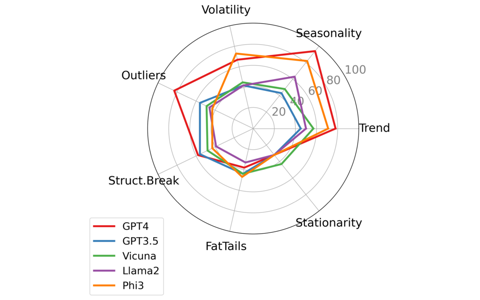
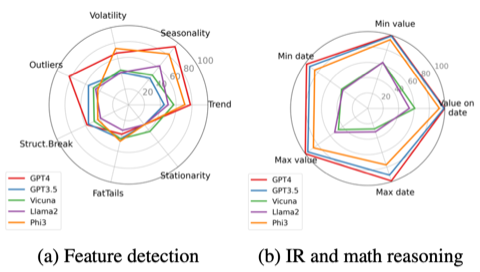
EMNLP thumbnail: both radar plots (Figure 2, page 7); ACL 2025 venues drop 63rd

diff --git a/Data/publications.js b/Data/publications.js
@@ -67,7 +67,7 @@ window.PUBLICATIONS = [
     img: "Images/pubs/thumbs/adaptagent.png", fig: "Images/pubs/adaptagent.png",
     title: "AdaptAgent: Adapting Multimodal Web Agents with Few-Shot Learning from Human Demonstrations",
     authors: "Gaurav Verma, Rachneet Kaur, Nishan Srishankar, Zhen Zeng, Tucker Balch, Manuela Veloso",
-    venue: "63rd Annual Meeting of the Association for Computational Linguistics",
+    venue: "Annual Meeting of the Association for Computational Linguistics",
     badges: ["NeurIPS 2024 Workshop"],
     notes: ["Also presented at NeurIPS Workshop on Adaptive Foundation Models, 2024"],
     links: [["PDF", "https://aclanthology.org/2025.acl-long.1008.pdf"],
@@ -83,7 +83,7 @@ window.PUBLICATIONS = [
     img: "Images/pubs/thumbs/letsc.png", fig: "Images/pubs/letsc.png",
     title: "LETS-C: Leveraging Language Embedding for Time Series Classification",
     authors: "Rachneet Kaur, Zhen Zeng, Tucker Balch, Manuela Veloso",
-    venue: "63rd Annual Meeting of the Association for Computational Linguistics",
+    venue: "Annual Meeting of the Association for Computational Linguistics",
     badges: ["NeurIPS 2024 Workshop"],
     notes: ["Also presented at NeurIPS Workshop on Time Series in the Age of Large Models, 2024"],
     links: [["PDF", "https://aclanthology.org/2025.acl-long.1557.pdf"],

diff --git a/index.html b/index.html
@@ -332,7 +332,7 @@ html.two-col-on .topnav{width:min(1050px, calc(100% - 48px))}
 </td></tr>
 </tbody></table>
 <div class="pubs pubs-selected" data-pubs="selected" data-figures="on"></div> <!-- data-figures="off" hides the figures -->
-<script src="Data/publications.js?v=9"></script>
+<script src="Data/publications.js?v=10"></script>
 <script src="Data/publications-ui.js?v=2"></script>
 
 <!-- ===== OLD publication sections below (Journal Publications, Conference Proceedings, Book Chapters) =====

diff --git a/publications.html b/publications.html
@@ -51,7 +51,7 @@
   <div class="pubs pubs-full" data-pubs="all"></div>
 </main>
 
-<script src="Data/publications.js?v=9"></script>
+<script src="Data/publications.js?v=10"></script>
 <script src="Data/publications-ui.js?v=2"></script>
 </body>
 </html>
